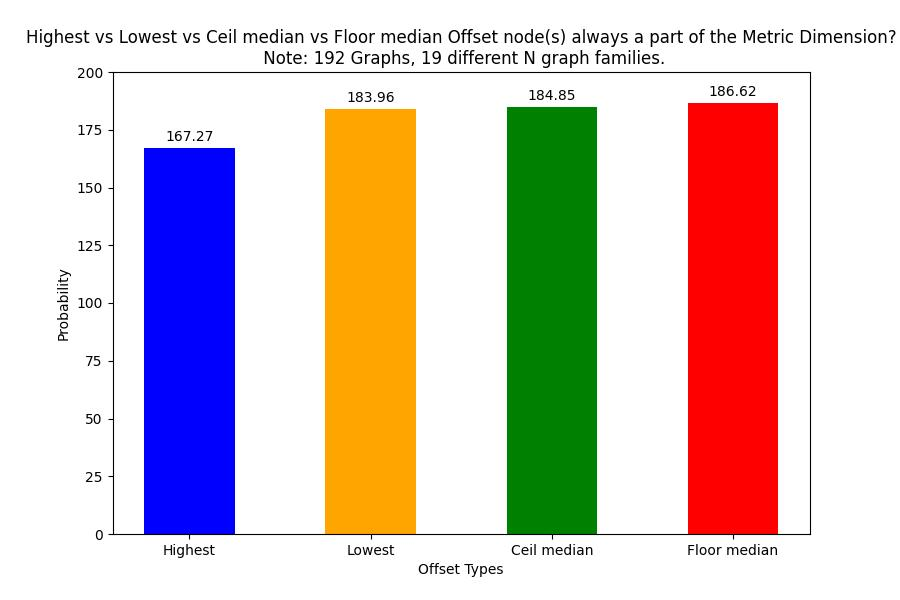
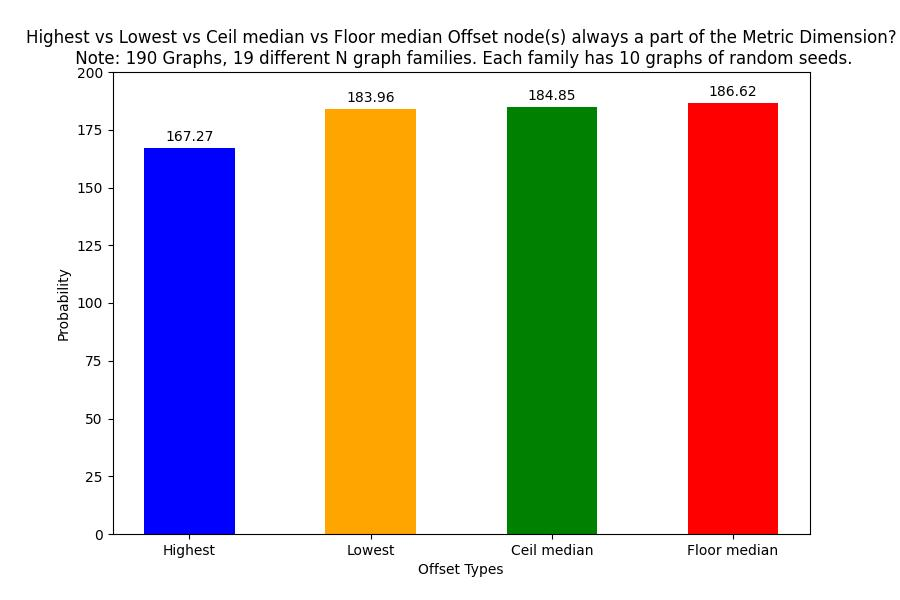
fix: Update offset mistake of 192 to 190 graphs total.

Changed region(s): [[0.4356, 0.09, 0.9644, 0.12], [0.0622, 0.09, 0.4044, 0.12]]

diff --git a/experiments/offset.py b/experiments/offset.py
@@ -195,7 +195,7 @@ probability_list = [167.2721320958702, 183.96172041994345, 184.8501585357503, 18
 plt.figure(figsize=(9, 6))
 plt.xlabel('Offset Types')
 plt.ylabel('Probability')
-plt.title('Highest vs Lowest vs Ceil median vs Floor median Offset node(s) always a part of the Metric Dimension?\n Note: 192 Graphs, 19 different N graph families.')
+plt.title('Highest vs Lowest vs Ceil median vs Floor median Offset node(s) always a part of the Metric Dimension?\n Note: 190 Graphs, 19 different N graph families. Each family has 10 graphs of random seeds.')
 plt.ylim(0, 200)  # Set y-axis limits to 0 and 200
 label_list = ['Highest', 'Lowest', 'Ceil median', 'Floor median']
 plt.xticks(range(len(label_list)),  label_list)  # Set x-axis labels to seed names
